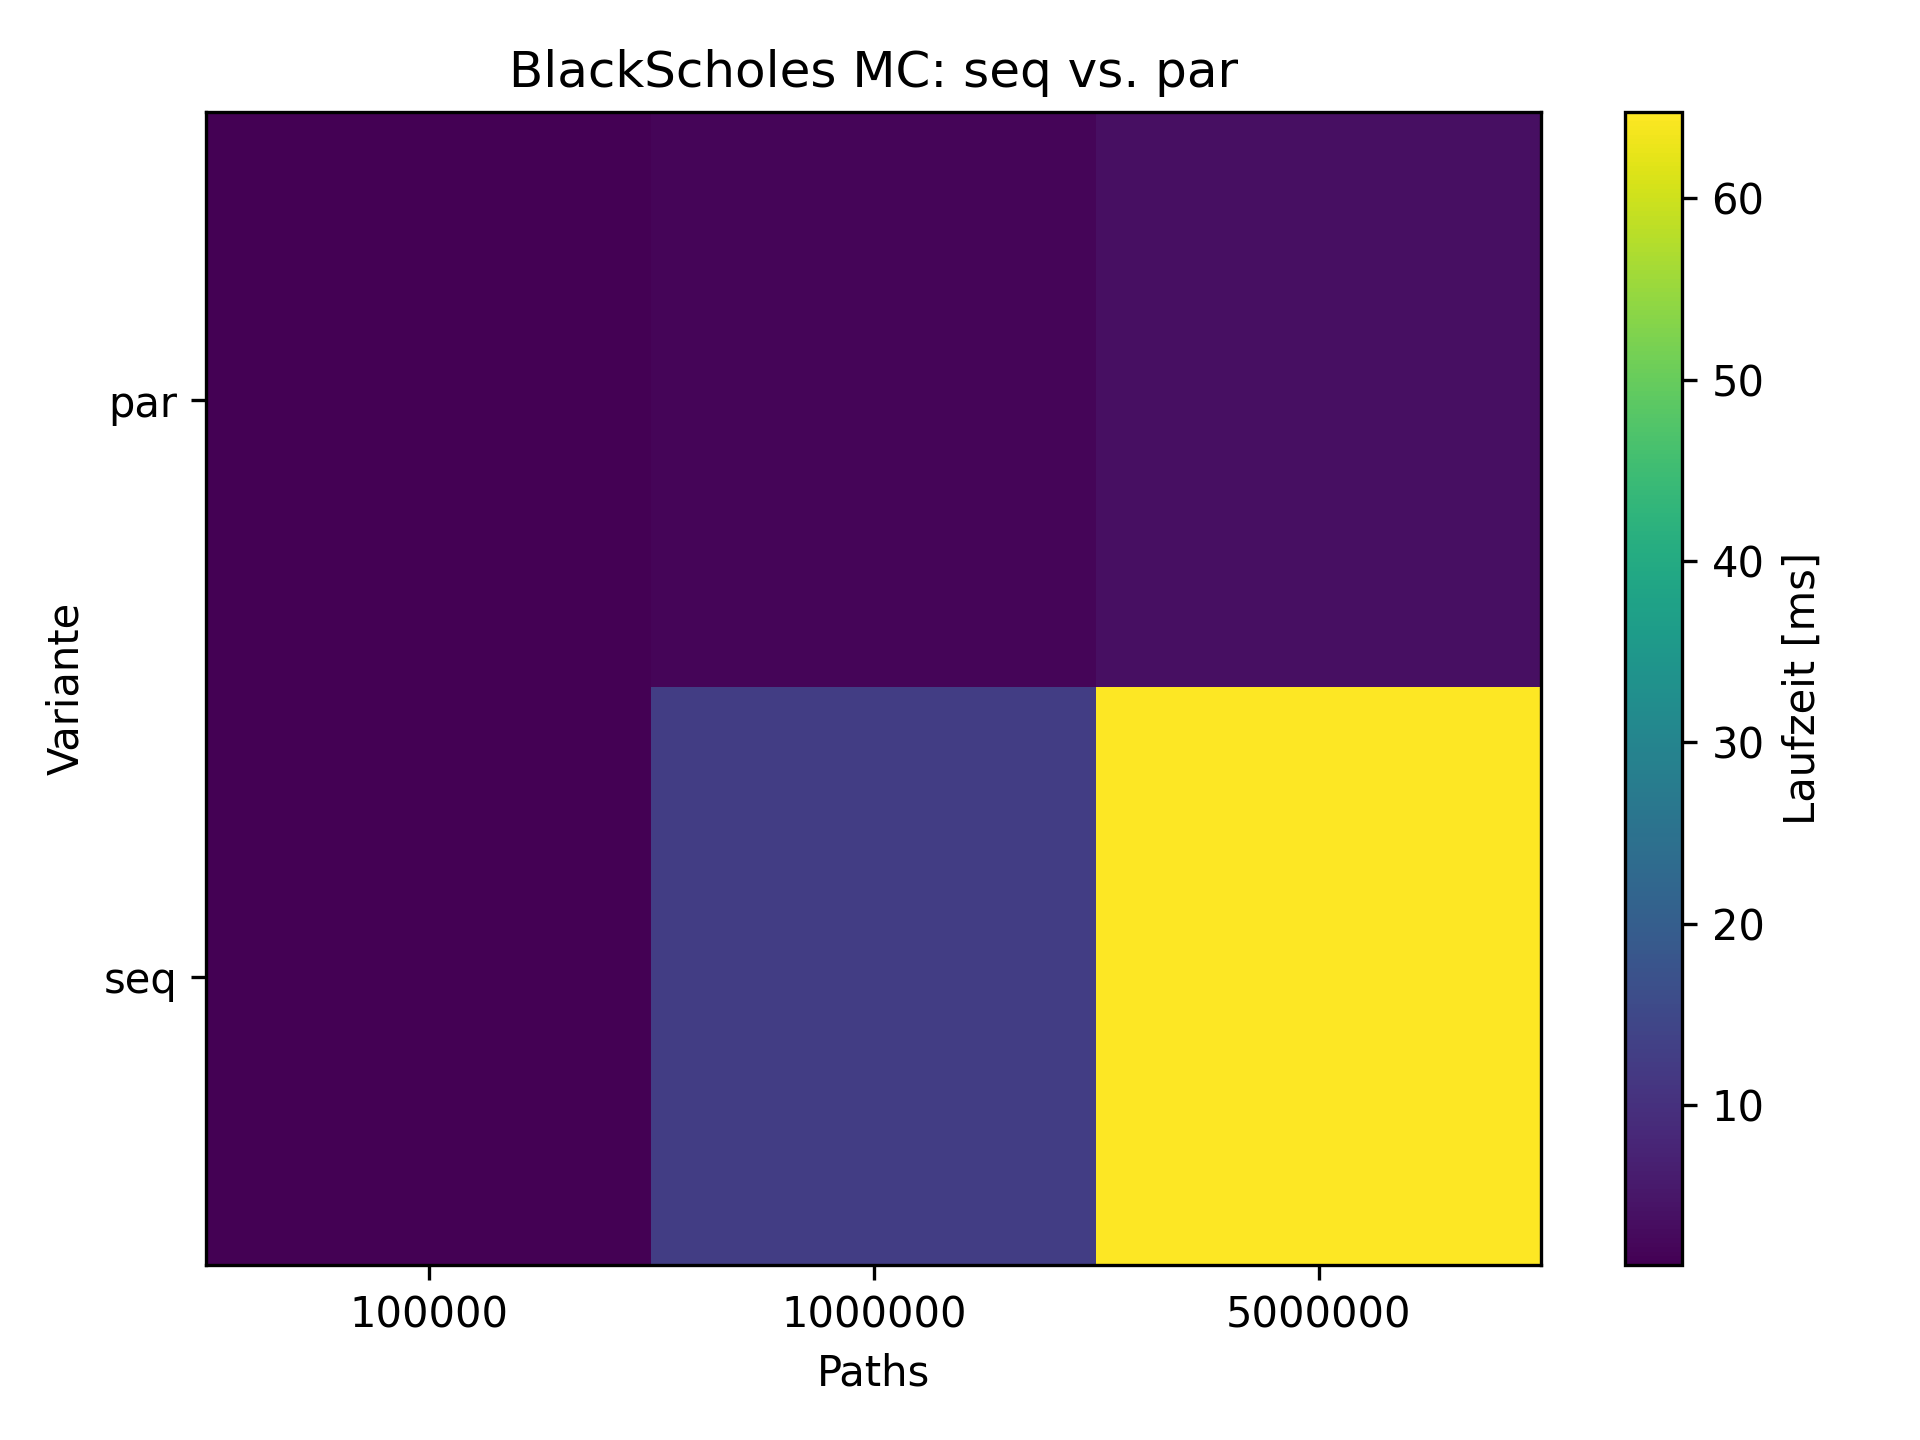
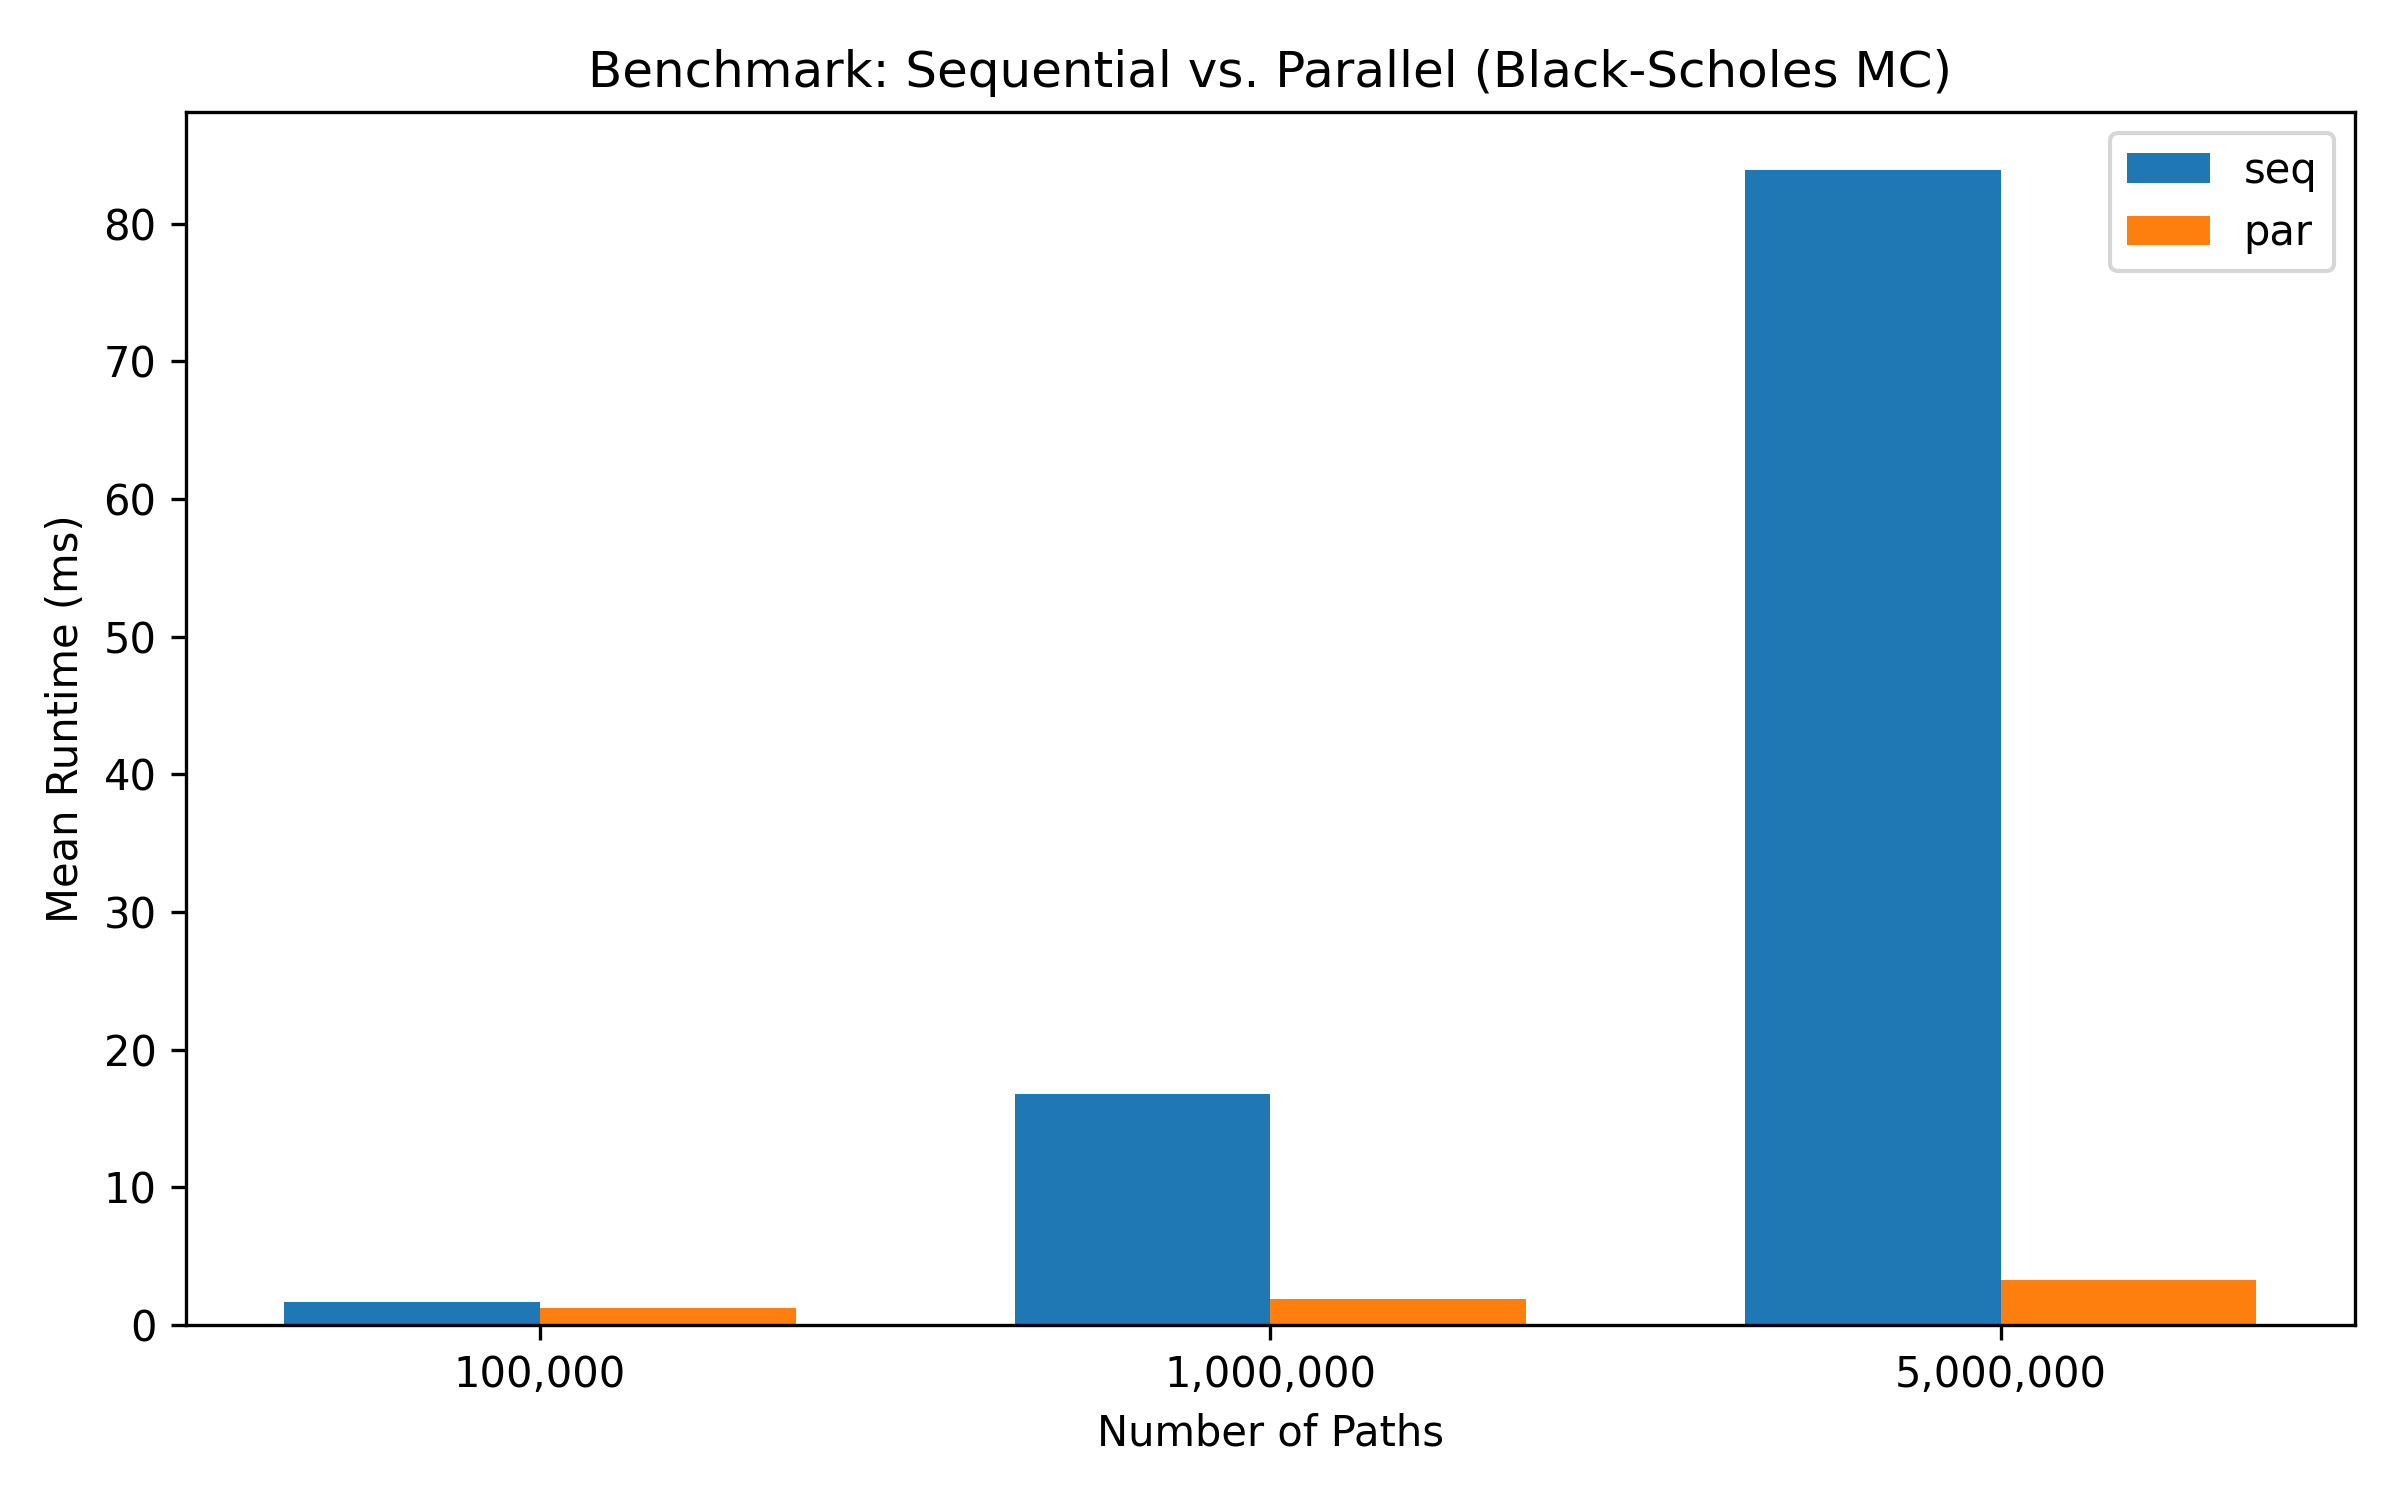
Tagesarbeit 22.07.25

diff --git a/pricing-core/extract.py b/pricing-core/extract.py
@@ -4,33 +4,43 @@ import os
 import pandas as pd
 import matplotlib.pyplot as plt
 
+# Step 1: Ensure benchmarks have been run ('cargo bench' in pricing-core)
+# Step 2: Extract data from Criterion output directory
 rows = []
 base = "target/criterion/BlackScholes_MC"
-# Pattern: target/criterion/BlackScholes_MC/{variant}/{paths}/new/estimates.json
 pattern = os.path.join(base, "*", "*", "new", "estimates.json")
 for path in glob.glob(pattern):
-    # path z.B. "…/seq/100000/new/estimates.json"
     parts = path.split(os.sep)
-    variant = parts[-4]      # seq or par
-    paths = parts[-3]        # e.g. "100000"
+    variant = parts[-4]      # e.g., 'seq' or 'par'
+    paths = int(parts[-3])   # e.g., '100000'
     with open(path) as f:
         data = json.load(f)
     mean_ns = data["mean"]["point_estimate"]
-    rows.append((variant, int(paths), mean_ns / 1e6))
+    rows.append((variant, paths, mean_ns / 1e6))
 
+# Create DataFrame and save CSV
 df = pd.DataFrame(rows, columns=["variant","paths","mean_ms"])
-# Speichern als CSV
 df.to_csv("bench_results.csv", index=False)
 
-# Pivot für Heatmap
+# Pivot for heatmap
 pivot = df.pivot(index="variant", columns="paths", values="mean_ms")
-plt.imshow(pivot, aspect="auto")
-plt.colorbar(label="Laufzeit [ms]")
-plt.xlabel("Paths")
-plt.ylabel("Variante")
-plt.xticks(range(len(pivot.columns)), pivot.columns)
-plt.yticks(range(len(pivot.index)), pivot.index)
-plt.title("BlackScholes MC: seq vs. par")
+
+# Plot grouped bar chart
+fig, ax = plt.subplots(figsize=(8, 5))
+x = range(len(pivot.columns))
+width = 0.35
+
+ax.bar([i - width/2 for i in x], pivot.loc['seq'], width, label='seq')
+ax.bar([i + width/2 for i in x], pivot.loc['par'], width, label='par')
+
+ax.set_xticks(x)
+ax.set_xticklabels([f"{p:,}" for p in pivot.columns])
+ax.set_xlabel('Number of Paths')
+ax.set_ylabel('Mean Runtime (ms)')
+ax.set_title('Benchmark: Sequential vs. Parallel (Black-Scholes MC)')
+ax.legend()
 plt.tight_layout()
-os.makedirs("figures", exist_ok=True)
 plt.savefig("figures/heatmap_bench.png", dpi=300)
+
+if __name__ == "__main__":
+    print("bench_results.csv and figures/heatmap_bench.png generated.")

diff --git a/pricing-core/benches/throughput.rs b/pricing-core/benches/throughput.rs
@@ -1,7 +1,11 @@
 // pricing-core/benches/throughput.rs
 
-use criterion::{criterion_group, criterion_main, Criterion, BenchmarkId};
+use criterion::{
+    criterion_group, criterion_main, Criterion,
+    BenchmarkId,
+};
 use pricing_core::{bs_mc, bs_mc_parallel};
+use std::time::Duration;
 
 fn bench_bs_variants(c: &mut Criterion) {
     let mut group = c.benchmark_group("BlackScholes_MC");
@@ -18,6 +22,17 @@ fn bench_bs_variants(c: &mut Criterion) {
     }
     group.finish();
 }
+fn criterion_config() -> Criterion {
+    Criterion::default()
+        .sample_size(50)                           // weniger Samples, wenn’s sonst zu lange dauert
+        .measurement_time(Duration::from_secs(20)) // Messdauer pro Benchmark
+        .warm_up_time(Duration::from_secs(15))      // Warm‑up vor jeder Messung
+                           // volle Ausgabe auf der Konsole
+}
 
-criterion_group!(benches, bench_bs_variants);
+criterion_group! {
+    name = benches;                     // Name der Gruppe
+    config = criterion_config();        // hier wird Deine Funktion verwendet
+    targets = bench_bs_variants         // Deine Bench‑Funktion(en)
+}
 criterion_main!(benches);
